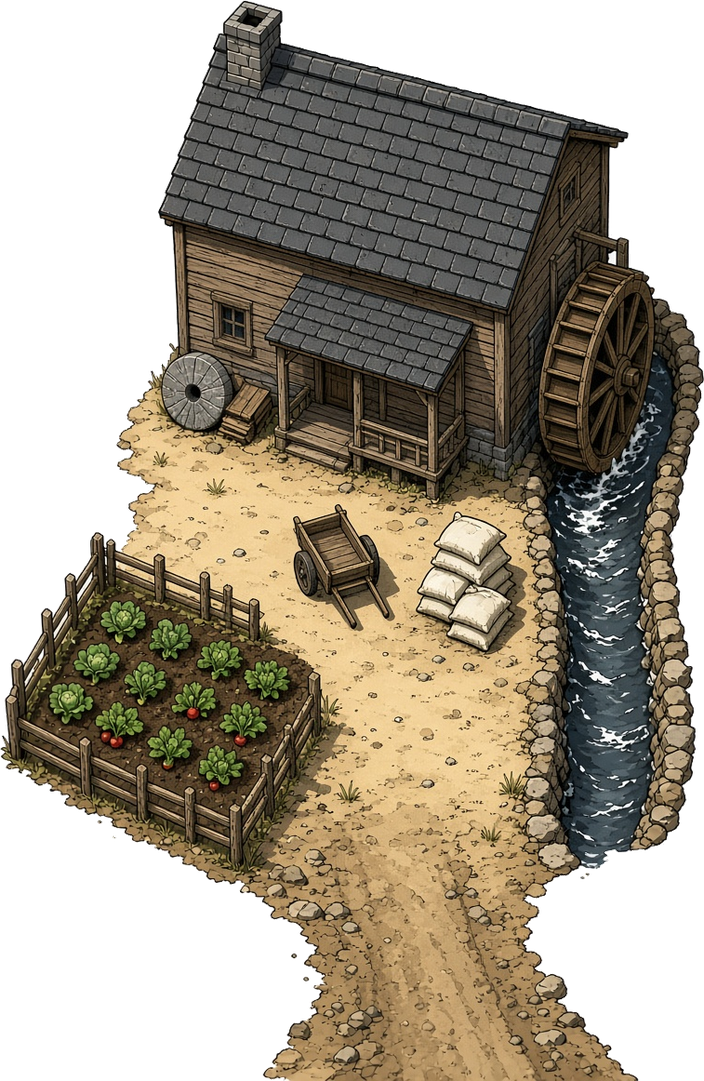
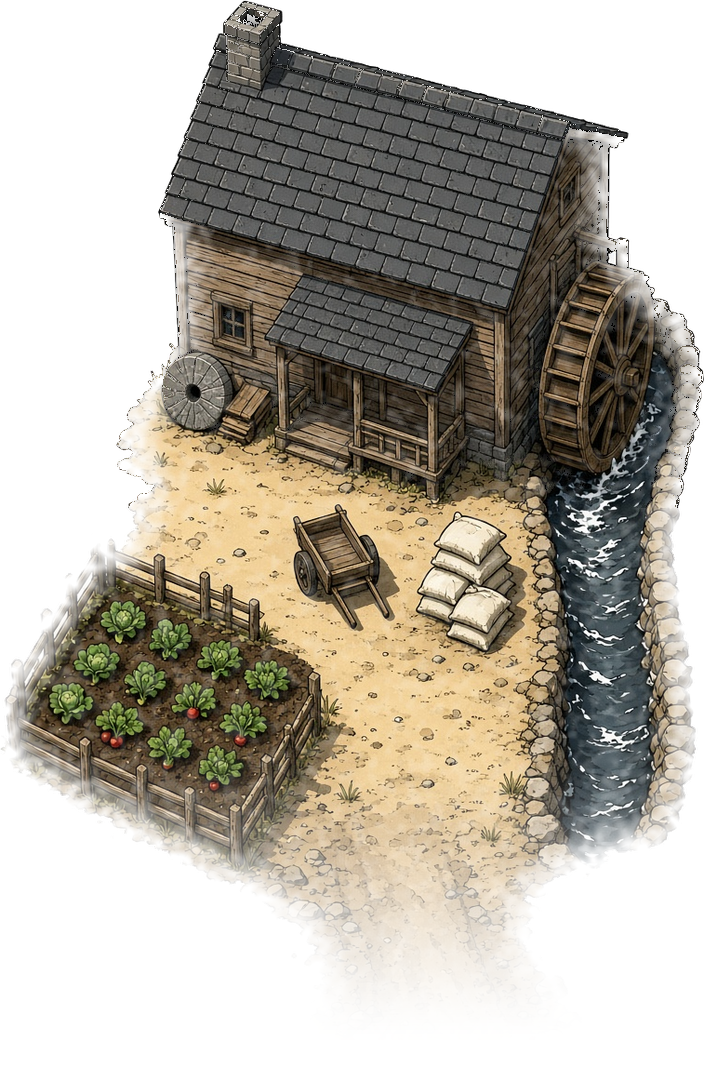
Mühle: weicher Rand, Weg aus dem Hof geht ohne Kante in den Mühlenweg über
Claude-Session: https://claude.ai/code/session_01WRaeiUW1SS7Jnky8dn2gGr

diff --git a/klapperkiste/design/karte.js b/klapperkiste/design/karte.js
@@ -104,7 +104,7 @@ window.Karte = function (opt = {}) {
   // Das Schilf geht nur mit dem Mähbalken (Kategorie Vorne) weg.
   const SCHILFPFAD = [[114, 300.5], [119.5, 292], [119.5, 284], [114.5, 279]];
   // Mühlenweg (G10): vom Ende des Feldwegs nach Norden über die morsche Brücke am Mühlbach zur Mühle
-  const MUEHLENWEG = [[300, 85], [302, 74], [300.5, 62], [296, 53]];
+  const MUEHLENWEG = [[300, 85], [302, 74], [300.5, 63], [297.5, 56], [295.5, 50]]; // endet im Hof (Weg im Mühlenbild)
   const WEGE = [WEG, ABZWEIG, FELDRAND, WEIDEWEG, HOFWEG, FELDERWEG, WALDPFAD, HOLZWEG, UFERPFAD, SCHILFPFAD, MUEHLENWEG];
   // Campingplatz (Bild 30 m breit), Einfahrt links, Steg rechts zum Waldsee
   const CAMPING = { X: 37, Y: 282, b: 30, bereich: [37, 282, 67, 302.1],
@@ -115,7 +115,7 @@ window.Karte = function (opt = {}) {
   // Mühle der Müllerin (Bild 22 m breit) hinter den Feldern im Norden, Mitte bei (x, y)
   // Bild 22 m breit (33,8 m hoch), linke obere Ecke bei (X, Y); der Weg im Bild läuft unten in den Mühlenweg.
   // Haus = Dach und Veranda, aus dem Bild vermessen.
-  const MUEHLE = { X: 283, Y: 26.2, b: 22, bereich: [283, 26, 305, 60], haus: [288, 27.5, 303.5, 42] };
+  const MUEHLE = { X: 284.5, Y: 26.2, b: 22, bereich: [284.5, 26, 306.5, 60], haus: [289.5, 27.5, 305, 42] };
   // Mühlbach: Linie, an der morschen Holzbrücke (BRUECKE) quert der Mühlenweg
   const BACH = [[246, 60], [262, 63.5], [278, 66], [292, 67.5], [301.2, 68], [310, 66.5], [322, 63]];
   const BACH_BREITE = 3.2, BRUECKE = { x: 301.2, y: 68, kg: 120 };
@@ -1732,7 +1732,7 @@ window.Karte = function (opt = {}) {
     { id: "bauernhof", name: "Bauernhof", art: "ort", x: 276, y: 162, gebiet: "nord" },
     { id: "foersterhuette", name: "Försterhütte", art: "ort", x: 36, y: 197, gebiet: "wald" },
     { id: "felder", name: "Zu den Feldern", art: "weg", x: 300, y: 85, gebiet: "felder" },
-    { id: "muehle", name: "Mühle", art: "ort", x: 296, y: 53, gebiet: "muehle" },
+    { id: "muehle", name: "Mühle", art: "ort", x: 295.5, y: 50, gebiet: "muehle" },
     { id: "camping", name: "Campingplatz", art: "ort", x: 39, y: 289.4, gebiet: "camping" },
     { id: "ostufer", name: "Ostufer am Waldsee", art: "weg", x: 114, y: 300.5, gebiet: "ostufer" },
     // erst, wenn Opa von Kauz erzählt hat (G9)

diff --git a/klapperkiste/tools/einmalig/muehle_weg_ausblenden.py b/klapperkiste/tools/einmalig/muehle_weg_ausblenden.py
@@ -1,0 +1,41 @@
+"""Einmalige Bearbeitung: Mühle von oben, Weg unten weich in den Mühlenweg übergehen lassen.
+
+Nach dem Einpassen mit weichem Rand wird der untere Teil des Bilds (der Weg, der aus dem
+Hof führt) zusätzlich über einige Meter nach unten hin ausgeblendet. So liegt der Weg im
+Bild auf dem gemalten Mühlenweg der Karte, ohne harte Kante.
+
+Aufruf:
+  python klapperkiste/tools/objekt.py einpassen klapperkiste/assets/karte/objekte/roh/muehle.jpg muehle \\
+    --meter 22 --weicher-rand 0.9 --rand-schutz 0,0,1,0.47
+  python klapperkiste/tools/einmalig/muehle_weg_ausblenden.py
+"""
+
+from __future__ import annotations
+
+import os
+import sys
+
+from PIL import Image, ImageChops
+
+ROOT = os.path.abspath(os.path.join(os.path.dirname(__file__), "..", ".."))
+PFAD = os.path.join(ROOT, "assets", "karte", "objekte", "muehle.png")
+AB = 0.66      # ab diesem Höhenanteil beginnt das Ausblenden
+BIS = 0.97     # hier ist es ganz durchsichtig
+
+
+def main() -> int:
+    bild = Image.open(PFAD).convert("RGBA")
+    w, h = bild.size
+    rampe = Image.new("L", (1, h))
+    for y in range(h):
+        f = (y / h - AB) / (BIS - AB)
+        f = max(0.0, min(1.0, f))
+        rampe.putpixel((0, y), round(255 * (1 - f * f * (3 - 2 * f))))
+    bild.putalpha(ImageChops.multiply(bild.getchannel("A"), rampe.resize((w, h))))
+    bild.save(PFAD)
+    print(f"{os.path.relpath(PFAD)}: Weg unten ausgeblendet ({AB:.0%} bis {BIS:.0%} der Höhe)")
+    return 0
+
+
+if __name__ == "__main__":
+    sys.exit(main())
